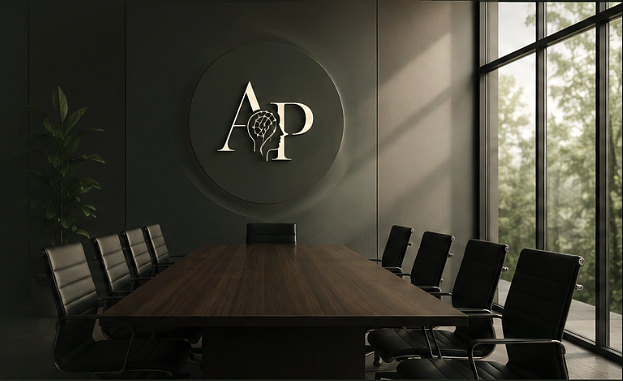
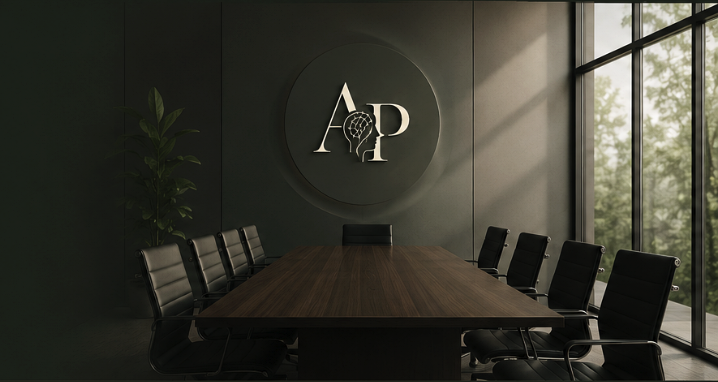
Add files via upload

diff --git a/styles.css b/styles.css
@@ -1439,3 +1439,71 @@ body:has(.work-hero) .outline-button:hover,
 /* 8) American spelling consistency in companies visible section cannot be done in CSS,
    but styles remain compatible after HTML replacement. */
 
+
+
+/* ===== FINAL SPECIFIC FIXES ===== */
+
+/* Companies hero: use exact supplied boardroom image, fitted and blended */
+.companies-visual{
+  background:
+    linear-gradient(90deg,
+      #182217 0%,
+      rgba(24,34,23,.96) 10%,
+      rgba(24,34,23,.70) 24%,
+      rgba(24,34,23,.30) 42%,
+      rgba(24,34,23,.06) 63%,
+      rgba(24,34,23,0) 100%),
+    url("assets/companies-boardroom.png") center center / cover no-repeat !important;
+  filter:contrast(1.06) saturate(1.03) brightness(1.02) !important;
+}
+
+/* Companies: fix Tailored Workshops & Sessions icon exactly like removed Well-being icon */
+.remove-tailored-icon{
+  visibility:hidden !important;
+}
+
+/* Home hero central Book a Session button: beige frame/background, dark green text */
+.hero .book-button,
+.hero-panel .book-button,
+.hero-copy .book-button,
+.hero-right .book-button,
+.hero-text .book-button,
+.hero-content .book-button,
+.pillars + .book-button,
+main .hero a.book-button{
+  background:#f4eee4 !important;
+  background-image:none !important;
+  color:#1d2a1b !important;
+  border:1px solid rgba(29,42,27,.16) !important;
+  box-shadow:none !important;
+}
+
+.hero .book-button span,
+.hero-panel .book-button span,
+.hero-copy .book-button span,
+.hero-right .book-button span,
+.hero-text .book-button span,
+.hero-content .book-button span,
+main .hero a.book-button span{
+  color:#1d2a1b !important;
+}
+
+.hero .book-button:hover,
+.hero-panel .book-button:hover,
+.hero-copy .book-button:hover,
+.hero-right .book-button:hover,
+.hero-text .book-button:hover,
+.hero-content .book-button:hover,
+.pillars + .book-button:hover,
+main .hero a.book-button:hover{
+  background:#fff8ef !important;
+  color:#1d2a1b !important;
+}
+
+/* Keep header Book a Session button dark green */
+.site-header > .nav-button,
+header.site-header .nav-button{
+  background:#1d2a1b !important;
+  background-image:none !important;
+  color:#f6efe6 !important;
+}

diff --git a/companies.html b/companies.html
@@ -73,7 +73,7 @@
           </article>
 
           <article class="company-pillar">
-            <div class="company-icon"><img src="assets/icons/well-being.png" alt=""></div>
+            <div class="company-icon remove-tailored-icon"><img src="assets/icons/well-being.png" alt=""></div>
             <h2>Tailored Workshops &amp; Sessions</h2>
             <p>Engaging sessions on mental health, emotional clarity, resilience, and sustainable performance.</p>
           </article>